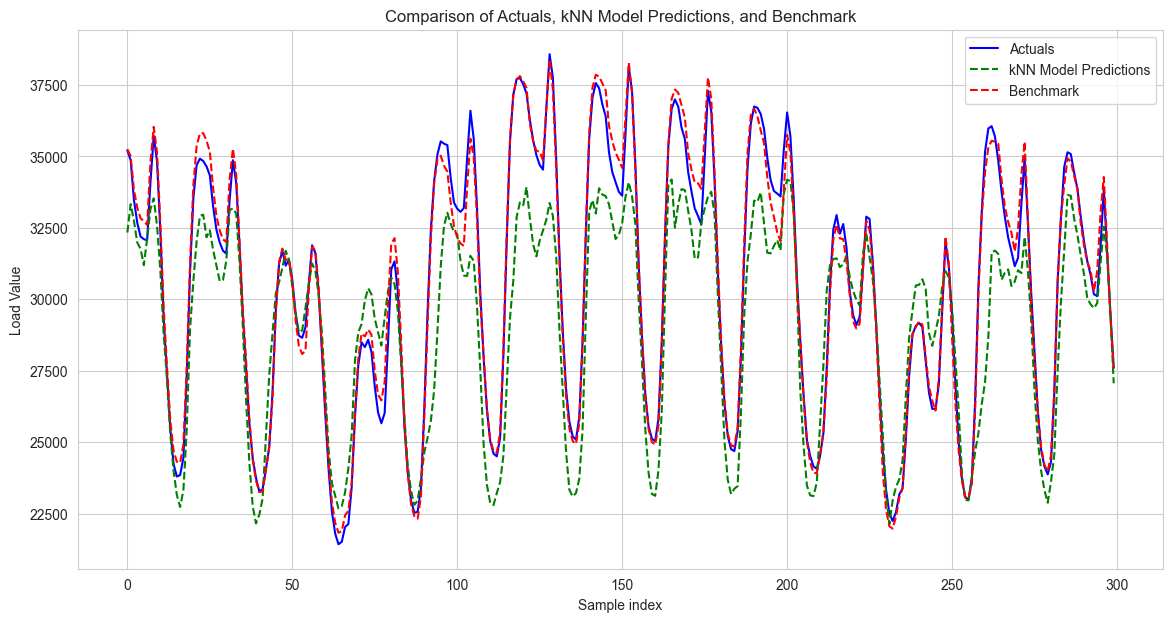
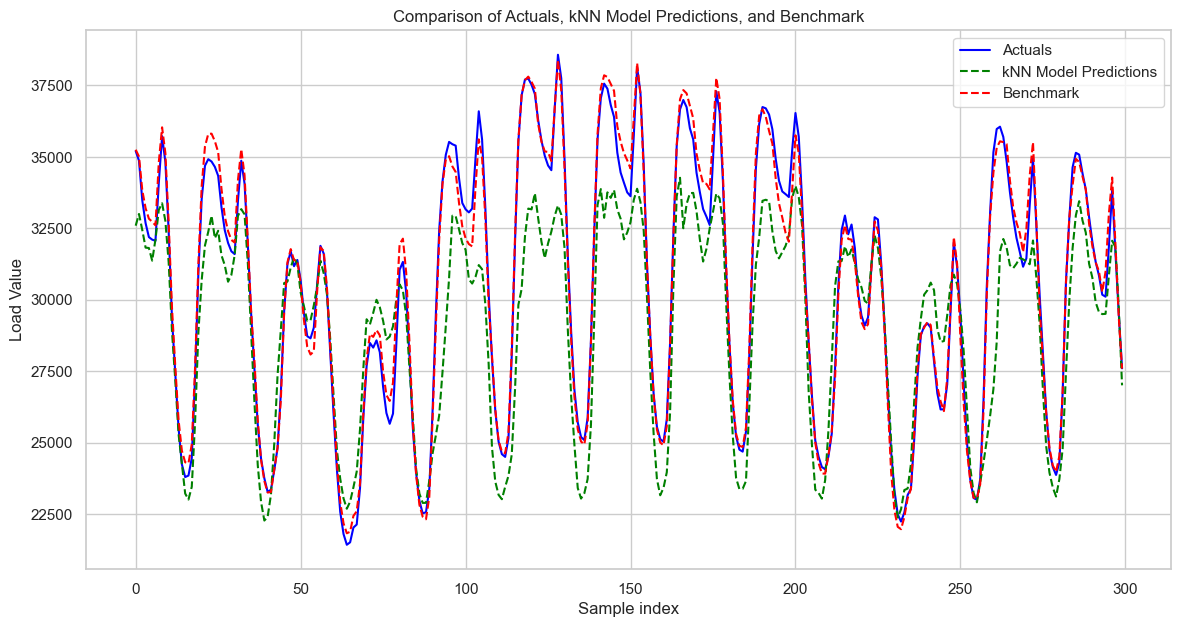
Flask frozen of the energy analysis blog final version

diff --git a/energy_analysis_blog.html b/energy_analysis_blog.html
@@ -109,7 +109,7 @@
                     <ul class="dropdown-menu">
                       <li><a class="dropdown-item" href="running_analysis_blog.html">Running Analysis Using my Strava Data</a></li>
                       <li><a class="dropdown-item" href="strava_analysis_howto.html">How To Analyze <i>Your</i> Strava Data</a></li>
-                      <li><a class="dropdown-item" href="energy_analysis_blog.html">Time-Series Forecasting of the Spanish Energy Grid [WIP]</a></li>
+                      <li><a class="dropdown-item" href="energy_analysis_blog.html">Time-Series Forecasting of the Spanish Energy Grid</a></li>
                       <!--<li><a class="dropdown-item" href="#">Spotify Analysis - Coming Soon!</a></li>-->
                       <li><hr class="dropdown-divider"></li>  
                       <li><a class="dropdown-item" href="side_projects.html">All Projects</a></li>
@@ -159,11 +159,11 @@
     <h1>Time-Series Forecasting of the Spanish Energy Grid</h1>
 
     <h4>October 2023</h4>
-    <div class="reading-time"><i>Approximate reading time: 10 minutes
+    <div class="reading-time"><i>Approximate reading time: 13 minutes
     </div></i></p>
           
 
-    [WIP] Follow along on <a href="https://github.com/zoemcbride/energy-data-lab">my Github repo</a>!
+    Follow along on <a href="https://github.com/zoemcbride/energy-data-lab">my Github repo</a>!
     <p><p><p>
 
     <h3>Intro & Motivation</h3>
@@ -321,6 +321,7 @@
         <li>Season, derived from the month, one-hot encoded as true/false for each season</li>
         <li>Hour of the day, transformed using both sin(2pi*x) and cos(2pi*x) to indicate the cyclical nature of the hour feature</li>
         <li>Previous day load, scaled with a standard scalar</li>
+        <li>Spanish holiday binary, where 1 represents a holiday (such as Christmas on 12/25) and 0 represents no holiday</li>
       </ul>
       The target vector, of course, was the total actual load. The benchmarking vector was the total load forecasted by the TSO.
     </p>
@@ -333,7 +334,7 @@
 
 
     <h4>K-Nearest Neighbors (KNN)</h4>
-    <!--<img src="static/images/knn_nearestneighbors_rmse.png" alt="KNN RMSE versus Number of Neighbors" class="center" style="
+    <img src="static/images/knn_nearestneighbors_rmse.png" alt="KNN RMSE versus Number of Neighbors" class="center" style="
             max-width: 100%;
             max-height: 400px;
             margin-left: auto;
@@ -341,12 +342,12 @@
             align-self: center;
             display: block;
             ">
-    With KNN, the only real hyperparameter to play with is the number of neighbors (k). The above graph shows the root mean squared error (RMSE) plotted against the number of neighbors (k) across all five cross validation folds. As can be seen in the above graph, around k=40 the RMSE plateaus, suggesting that increasing k further will not significantly improve the model's performance. Thus, from here I calculate the final mean absolute error (MAE) and RMSE of our KNN model using k=40 against the test set. I can then similarly calculate the RMSE for the benchmark. Thus, the final numbers for my KNN model are:
+    With KNN, the only real hyperparameter to play with is the number of neighbors (k). The above graph shows the root mean squared error (RMSE) plotted against the number of neighbors (k) across all five cross validation folds. As can be seen in the above graph, around k=50 the RMSE plateaus, suggesting that increasing k further will not significantly improve the model's performance. Thus, from here I calculate the final mean absolute error (MAE) and RMSE of our KNN model using k=50 against the test set. I can then similarly calculate the RMSE for the benchmark. Thus, the final numbers for my KNN model are:
     <ul>
-      <li>My KNN Model RMSE: 2553.0 MW</li>
+      <li>My KNN Model RMSE: 2538.92 MW</li>
       <li>Benchmark RMSE: 378.28 MW</li>
 
-      <li>My kNN model's RMSE is around 8.89% of the mean load value.</li>
+      <li>My kNN model's RMSE is around 8.84% of the mean load value.</li>
       <li>The benchmark's RMSE is around 1.32% of the mean load value.</li>
     </ul>
 
@@ -362,11 +363,10 @@
     
     <p class="opening-paragraph">Overall, while my KNN model could certainly be improved upon, it seems to capture the overall trend and shape of the load effectively.  However, it struggles with the magnitude, generally underpredicting (though occasionally overpredicting) the peak load values. </p>
 
-    -->    
 
     <h4>Random Forest (RF)</h4>
-    <!--
-    <p class="opening-paragraph"></p>
+    
+    
     <img src="static/images/rf_numbertrees_rmse.png" alt="RF RMSE versus Number of Trees" class="center" style="
             max-width: 100%;
             max-height: 400px;
@@ -375,16 +375,19 @@
             align-self: center;
             display: block;
             ">
-    With RF, there are several hyperparameters you can tune. To start, I looked into the number of trees. The above graph shows the root mean squared error (RMSE) plotted against the number of trees (n_estimators) across all five cross validation folds. As can be seen in the above graph, around n_estimators=200 the RMSE plateaus, suggesting that increasing the number of trees further will not significantly improve the model's performance. Thus, from here I calculate the final mean absolute error (MAE) and RMSE of our RF model using n_estimators=200 against the test set. I can then similarly calculate the RMSE for the benchmark. Thus, the final numbers for my RF model are:
+
+    <p class="opening-paragraph">With RF, there are several hyperparameters you can tune. To start, I looked into the number of trees. The above graph shows the root mean squared error (RMSE) plotted against the number of trees (n_estimators) across all five cross validation folds for one iteration of my RF model. As can be seen in the above graph, around n_estimators = 200 to 250 the RMSE plateaus, suggesting that increasing the number of trees further will not significantly improve the model's performance. From here, I then evaluated two other hyperparameters -- maximum depth of the trees and maximum number of features to include -- to further improve the performance of the RF model.  After hyperparameter tuning, I determined the best model had 250 trees with a maximum depth of 10 and maximum number of features of 5.  The max depth parameter controls the maximum number of levels in each decision tree; limiting depth can prevent overfitting by reducing the complexity of the model. Conversely, too shallow trees might not capture sufficient complexity, leading to underfitting. The max features parameter determines how many features each tree is allowed to try to split on at each node, and setting this can help ensure that trees in the ensemble are diverse, which often improves model performance due to the ensemble capturing a wider array of patterns in the data.</p>
+     
+     <p class="opening-paragraph">Next, I can calculate the final RMSE of our RF model using 250 trees of maximum depth of 10 and 5 features against the test set. I can then similarly calculate the RMSE for the benchmark. Thus, the final numbers for my RF model are:
     <ul>
-      <li>My RF Model RMSE: 2547.61 MW</li>
+      <li>My RF Model RMSE: 2452.98 MW</li>
       <li>Benchmark RMSE: 378.28 MW</li>
 
-      <li>My RF model's RMSE is around 8.87% of the mean load value.</li>
+      <li>My RF model's RMSE is around 8.54% of the mean load value.</li>
       <li>The benchmark's RMSE is around 1.32% of the mean load value.</li>
     </ul>
 
-    And below, a snapshot of my RF model (in green) compared to the benchmark (in red) and the actuals (in blue): </p>          
+    And below, a snapshot of my final RF model (in green) compared to the benchmark (in red) and the actuals (in blue): </p>          
     <img src="static/images/rf_benchmark_actuals_graph.png" alt="RF vs Benchmark vs Actuals Graph" class="center" style="
             max-width: 100%;
             max-height: 400px;
@@ -394,8 +397,10 @@
             display: block;
             ">
     
-    <p class="opening-paragraph">Upon visual inspection of the RF model's predictions, it seems to capture the overall trend and shape of the load effectively. However, it struggles with the magnitude, both underpredicting and sometimes overpredicting the peak load values, similar to the KNN model. It is also a bit more "jaggedy" than it needs to be at times. I am wondering if this could be due to overfitting, ie that it is capturing too much noise in the training data, rather than an underlying trend. Additionally, both the KNN and RF models tend to over- and under-predict at similar points in time, which is interesting.</p> 
-  -->
+    <p class="opening-paragraph">Upon visual inspection of the RF model's predictions, it seems to capture the overall trend and shape of the load effectively. However, it struggles with the magnitude, both underpredicting and sometimes overpredicting the peak load values, similar to the KNN model. It is also a bit more "jaggedy" than it needs to be at times. Additionally, both the KNN and RF models tend to over- and under-predict at similar points in time, which is interesting. I explored the under- and over-predicting tendency further, and found that at the higher load values, my model underpredicts, but that at lower load values, my model overpredicts. </p>
+
+    <p class="opening-paragraph">Finally, when investigating the residual between my RF model and the actual load data, I found that the largest errors happened on a very peculiar day, June 2, 2018. In fact, 12 of the 20 "worst" predictions occured on this day. Upon further research, I found that Pedro Sanchez was sworn into office as the Prime Minister of Spain on this day (he is still the PM of Spain as of this writing). On June 2, 2018, the grid load peaked at around 40,000 MW, which is significantly higher than a the mean and median of the grid load, which are 28,000 MW. My model significantly underpredicts the load that day, and frankly, the impact of a new PM on the grid could not have been appropriately anticipated. This is a fascinating finding, but also one that I could not have expected my model to capture. </p>   
+  
 
     <!--<img src="static/images/rf_feature_importance.png" alt="RF Feature Importance" class="center" style="
             max-width: 100%;
@@ -407,7 +412,11 @@
             ">-->
 
     <h3>Conclusions</h3>
-    <p class="opening-paragraph"></p>
+    <p class="opening-paragraph">In conclusion, my RF model achieves an RMSE of 2452.98 MW, which is about 8.54% of the mean load value, indicating a reasonably good fit to the load pattern despite not being flawless. Compared to the KNN model, the RF model is more accurate by 86 MW, or 0.3% of the mean load. A notable observation is the performance on June 2, 2018, when a significant deviation occurred due to the unforeseen event of a new Prime Minister being sworn in, underscoring the model's limitations in accounting for such events. On the other hand, the KNN model, while slightly less accurate with an RMSE of 2538.92 MW, offers a faster alternative, suitable for scenarios where speed is of the essence. </p>
+
+    <p class="opening-paragraph">As for future improvements, exploring a suite of sophisticated time-series forecasting methods like ARIMA, SARIMA, Prophet, LSTMs, or XGBoost stands as the logical next step, aiming to inch closer to the benchmark RMSE of 378.28 MW, which only represents about 1.32% of the mean load value. Fine-tuning the feature matrix could also unlock further potential; for instance, tweaking the previous day's load scaling or incorporating predictive scheduling elements like future election dates may provide additional predictive leverage. </p>
+
+    <p class="opening-paragraph">Overall, I am content with my model's performance. However, the journey towards optimization is an ongoing process, and with more time dedicated to testing and iteration, I am optimistic that an even more precise model is within reach.</p>
 
 <script data-goatcounter="https://zoemcbride.goatcounter.com/count"
 async src="//gc.zgo.at/count.js"></script>

diff --git a/my_flask_app/build/energy_analysis_blog.html b/my_flask_app/build/energy_analysis_blog.html
@@ -109,7 +109,7 @@
                     <ul class="dropdown-menu">
                       <li><a class="dropdown-item" href="running_analysis_blog.html">Running Analysis Using my Strava Data</a></li>
                       <li><a class="dropdown-item" href="strava_analysis_howto.html">How To Analyze <i>Your</i> Strava Data</a></li>
-                      <li><a class="dropdown-item" href="energy_analysis_blog.html">Time-Series Forecasting of the Spanish Energy Grid [WIP]</a></li>
+                      <li><a class="dropdown-item" href="energy_analysis_blog.html">Time-Series Forecasting of the Spanish Energy Grid</a></li>
                       <!--<li><a class="dropdown-item" href="#">Spotify Analysis - Coming Soon!</a></li>-->
                       <li><hr class="dropdown-divider"></li>  
                       <li><a class="dropdown-item" href="side_projects.html">All Projects</a></li>
@@ -159,11 +159,11 @@
     <h1>Time-Series Forecasting of the Spanish Energy Grid</h1>
 
     <h4>October 2023</h4>
-    <div class="reading-time"><i>Approximate reading time: 10 minutes
+    <div class="reading-time"><i>Approximate reading time: 13 minutes
     </div></i></p>
           
 
-    [WIP] Follow along on <a href="https://github.com/zoemcbride/energy-data-lab">my Github repo</a>!
+    Follow along on <a href="https://github.com/zoemcbride/energy-data-lab">my Github repo</a>!
     <p><p><p>
 
     <h3>Intro & Motivation</h3>
@@ -321,6 +321,7 @@
         <li>Season, derived from the month, one-hot encoded as true/false for each season</li>
         <li>Hour of the day, transformed using both sin(2pi*x) and cos(2pi*x) to indicate the cyclical nature of the hour feature</li>
         <li>Previous day load, scaled with a standard scalar</li>
+        <li>Spanish holiday binary, where 1 represents a holiday (such as Christmas on 12/25) and 0 represents no holiday</li>
       </ul>
       The target vector, of course, was the total actual load. The benchmarking vector was the total load forecasted by the TSO.
     </p>
@@ -333,7 +334,7 @@
 
 
     <h4>K-Nearest Neighbors (KNN)</h4>
-    <!--<img src="static/images/knn_nearestneighbors_rmse.png" alt="KNN RMSE versus Number of Neighbors" class="center" style="
+    <img src="static/images/knn_nearestneighbors_rmse.png" alt="KNN RMSE versus Number of Neighbors" class="center" style="
             max-width: 100%;
             max-height: 400px;
             margin-left: auto;
@@ -341,12 +342,12 @@
             align-self: center;
             display: block;
             ">
-    With KNN, the only real hyperparameter to play with is the number of neighbors (k). The above graph shows the root mean squared error (RMSE) plotted against the number of neighbors (k) across all five cross validation folds. As can be seen in the above graph, around k=40 the RMSE plateaus, suggesting that increasing k further will not significantly improve the model's performance. Thus, from here I calculate the final mean absolute error (MAE) and RMSE of our KNN model using k=40 against the test set. I can then similarly calculate the RMSE for the benchmark. Thus, the final numbers for my KNN model are:
+    With KNN, the only real hyperparameter to play with is the number of neighbors (k). The above graph shows the root mean squared error (RMSE) plotted against the number of neighbors (k) across all five cross validation folds. As can be seen in the above graph, around k=50 the RMSE plateaus, suggesting that increasing k further will not significantly improve the model's performance. Thus, from here I calculate the final mean absolute error (MAE) and RMSE of our KNN model using k=50 against the test set. I can then similarly calculate the RMSE for the benchmark. Thus, the final numbers for my KNN model are:
     <ul>
-      <li>My KNN Model RMSE: 2553.0 MW</li>
+      <li>My KNN Model RMSE: 2538.92 MW</li>
       <li>Benchmark RMSE: 378.28 MW</li>
 
-      <li>My kNN model's RMSE is around 8.89% of the mean load value.</li>
+      <li>My kNN model's RMSE is around 8.84% of the mean load value.</li>
       <li>The benchmark's RMSE is around 1.32% of the mean load value.</li>
     </ul>
 
@@ -362,11 +363,10 @@
     
     <p class="opening-paragraph">Overall, while my KNN model could certainly be improved upon, it seems to capture the overall trend and shape of the load effectively.  However, it struggles with the magnitude, generally underpredicting (though occasionally overpredicting) the peak load values. </p>
 
-    -->    
 
     <h4>Random Forest (RF)</h4>
-    <!--
-    <p class="opening-paragraph"></p>
+    
+    
     <img src="static/images/rf_numbertrees_rmse.png" alt="RF RMSE versus Number of Trees" class="center" style="
             max-width: 100%;
             max-height: 400px;
@@ -375,16 +375,19 @@
             align-self: center;
             display: block;
             ">
-    With RF, there are several hyperparameters you can tune. To start, I looked into the number of trees. The above graph shows the root mean squared error (RMSE) plotted against the number of trees (n_estimators) across all five cross validation folds. As can be seen in the above graph, around n_estimators=200 the RMSE plateaus, suggesting that increasing the number of trees further will not significantly improve the model's performance. Thus, from here I calculate the final mean absolute error (MAE) and RMSE of our RF model using n_estimators=200 against the test set. I can then similarly calculate the RMSE for the benchmark. Thus, the final numbers for my RF model are:
+
+    <p class="opening-paragraph">With RF, there are several hyperparameters you can tune. To start, I looked into the number of trees. The above graph shows the root mean squared error (RMSE) plotted against the number of trees (n_estimators) across all five cross validation folds for one iteration of my RF model. As can be seen in the above graph, around n_estimators = 200 to 250 the RMSE plateaus, suggesting that increasing the number of trees further will not significantly improve the model's performance. From here, I then evaluated two other hyperparameters -- maximum depth of the trees and maximum number of features to include -- to further improve the performance of the RF model.  After hyperparameter tuning, I determined the best model had 250 trees with a maximum depth of 10 and maximum number of features of 5.  The max depth parameter controls the maximum number of levels in each decision tree; limiting depth can prevent overfitting by reducing the complexity of the model. Conversely, too shallow trees might not capture sufficient complexity, leading to underfitting. The max features parameter determines how many features each tree is allowed to try to split on at each node, and setting this can help ensure that trees in the ensemble are diverse, which often improves model performance due to the ensemble capturing a wider array of patterns in the data.</p>
+     
+     <p class="opening-paragraph">Next, I can calculate the final RMSE of our RF model using 250 trees of maximum depth of 10 and 5 features against the test set. I can then similarly calculate the RMSE for the benchmark. Thus, the final numbers for my RF model are:
     <ul>
-      <li>My RF Model RMSE: 2547.61 MW</li>
+      <li>My RF Model RMSE: 2452.98 MW</li>
       <li>Benchmark RMSE: 378.28 MW</li>
 
-      <li>My RF model's RMSE is around 8.87% of the mean load value.</li>
+      <li>My RF model's RMSE is around 8.54% of the mean load value.</li>
       <li>The benchmark's RMSE is around 1.32% of the mean load value.</li>
     </ul>
 
-    And below, a snapshot of my RF model (in green) compared to the benchmark (in red) and the actuals (in blue): </p>          
+    And below, a snapshot of my final RF model (in green) compared to the benchmark (in red) and the actuals (in blue): </p>          
     <img src="static/images/rf_benchmark_actuals_graph.png" alt="RF vs Benchmark vs Actuals Graph" class="center" style="
             max-width: 100%;
             max-height: 400px;
@@ -394,8 +397,10 @@
             display: block;
             ">
     
-    <p class="opening-paragraph">Upon visual inspection of the RF model's predictions, it seems to capture the overall trend and shape of the load effectively. However, it struggles with the magnitude, both underpredicting and sometimes overpredicting the peak load values, similar to the KNN model. It is also a bit more "jaggedy" than it needs to be at times. I am wondering if this could be due to overfitting, ie that it is capturing too much noise in the training data, rather than an underlying trend. Additionally, both the KNN and RF models tend to over- and under-predict at similar points in time, which is interesting.</p> 
-  -->
+    <p class="opening-paragraph">Upon visual inspection of the RF model's predictions, it seems to capture the overall trend and shape of the load effectively. However, it struggles with the magnitude, both underpredicting and sometimes overpredicting the peak load values, similar to the KNN model. It is also a bit more "jaggedy" than it needs to be at times. Additionally, both the KNN and RF models tend to over- and under-predict at similar points in time, which is interesting. I explored the under- and over-predicting tendency further, and found that at the higher load values, my model underpredicts, but that at lower load values, my model overpredicts. </p>
+
+    <p class="opening-paragraph">Finally, when investigating the residual between my RF model and the actual load data, I found that the largest errors happened on a very peculiar day, June 2, 2018. In fact, 12 of the 20 "worst" predictions occured on this day. Upon further research, I found that Pedro Sanchez was sworn into office as the Prime Minister of Spain on this day (he is still the PM of Spain as of this writing). On June 2, 2018, the grid load peaked at around 40,000 MW, which is significantly higher than a the mean and median of the grid load, which are 28,000 MW. My model significantly underpredicts the load that day, and frankly, the impact of a new PM on the grid could not have been appropriately anticipated. This is a fascinating finding, but also one that I could not have expected my model to capture. </p>   
+  
 
     <!--<img src="static/images/rf_feature_importance.png" alt="RF Feature Importance" class="center" style="
             max-width: 100%;
@@ -407,7 +412,11 @@
             ">-->
 
     <h3>Conclusions</h3>
-    <p class="opening-paragraph"></p>
+    <p class="opening-paragraph">In conclusion, my RF model achieves an RMSE of 2452.98 MW, which is about 8.54% of the mean load value, indicating a reasonably good fit to the load pattern despite not being flawless. Compared to the KNN model, the RF model is more accurate by 86 MW, or 0.3% of the mean load. A notable observation is the performance on June 2, 2018, when a significant deviation occurred due to the unforeseen event of a new Prime Minister being sworn in, underscoring the model's limitations in accounting for such events. On the other hand, the KNN model, while slightly less accurate with an RMSE of 2538.92 MW, offers a faster alternative, suitable for scenarios where speed is of the essence. </p>
+
+    <p class="opening-paragraph">As for future improvements, exploring a suite of sophisticated time-series forecasting methods like ARIMA, SARIMA, Prophet, LSTMs, or XGBoost stands as the logical next step, aiming to inch closer to the benchmark RMSE of 378.28 MW, which only represents about 1.32% of the mean load value. Fine-tuning the feature matrix could also unlock further potential; for instance, tweaking the previous day's load scaling or incorporating predictive scheduling elements like future election dates may provide additional predictive leverage. </p>
+
+    <p class="opening-paragraph">Overall, I am content with my model's performance. However, the journey towards optimization is an ongoing process, and with more time dedicated to testing and iteration, I am optimistic that an even more precise model is within reach.</p>
 
 <script data-goatcounter="https://zoemcbride.goatcounter.com/count"
 async src="//gc.zgo.at/count.js"></script>

diff --git a/book_reviews.html b/book_reviews.html
@@ -109,7 +109,7 @@
                     <ul class="dropdown-menu">
                       <li><a class="dropdown-item" href="running_analysis_blog.html">Running Analysis Using my Strava Data</a></li>
                       <li><a class="dropdown-item" href="strava_analysis_howto.html">How To Analyze <i>Your</i> Strava Data</a></li>
-                      <li><a class="dropdown-item" href="energy_analysis_blog.html">Time-Series Forecasting of the Spanish Energy Grid [WIP]</a></li>
+                      <li><a class="dropdown-item" href="energy_analysis_blog.html">Time-Series Forecasting of the Spanish Energy Grid</a></li>
                       <!--<li><a class="dropdown-item" href="#">Spotify Analysis - Coming Soon!</a></li>-->
                       <li><hr class="dropdown-divider"></li>  
                       <li><a class="dropdown-item" href="side_projects.html">All Projects</a></li>

diff --git a/index.html b/index.html
@@ -109,7 +109,7 @@
                     <ul class="dropdown-menu">
                       <li><a class="dropdown-item" href="running_analysis_blog.html">Running Analysis Using my Strava Data</a></li>
                       <li><a class="dropdown-item" href="strava_analysis_howto.html">How To Analyze <i>Your</i> Strava Data</a></li>
-                      <li><a class="dropdown-item" href="energy_analysis_blog.html">Time-Series Forecasting of the Spanish Energy Grid [WIP]</a></li>
+                      <li><a class="dropdown-item" href="energy_analysis_blog.html">Time-Series Forecasting of the Spanish Energy Grid</a></li>
                       <!--<li><a class="dropdown-item" href="#">Spotify Analysis - Coming Soon!</a></li>-->
                       <li><hr class="dropdown-divider"></li>  
                       <li><a class="dropdown-item" href="side_projects.html">All Projects</a></li>

diff --git a/my_flask_app/build/book_reviews.html b/my_flask_app/build/book_reviews.html
@@ -109,7 +109,7 @@
                     <ul class="dropdown-menu">
                       <li><a class="dropdown-item" href="running_analysis_blog.html">Running Analysis Using my Strava Data</a></li>
                       <li><a class="dropdown-item" href="strava_analysis_howto.html">How To Analyze <i>Your</i> Strava Data</a></li>
-                      <li><a class="dropdown-item" href="energy_analysis_blog.html">Time-Series Forecasting of the Spanish Energy Grid [WIP]</a></li>
+                      <li><a class="dropdown-item" href="energy_analysis_blog.html">Time-Series Forecasting of the Spanish Energy Grid</a></li>
                       <!--<li><a class="dropdown-item" href="#">Spotify Analysis - Coming Soon!</a></li>-->
                       <li><hr class="dropdown-divider"></li>  
                       <li><a class="dropdown-item" href="side_projects.html">All Projects</a></li>

diff --git a/my_flask_app/build/index.html b/my_flask_app/build/index.html
@@ -109,7 +109,7 @@
                     <ul class="dropdown-menu">
                       <li><a class="dropdown-item" href="running_analysis_blog.html">Running Analysis Using my Strava Data</a></li>
                       <li><a class="dropdown-item" href="strava_analysis_howto.html">How To Analyze <i>Your</i> Strava Data</a></li>
-                      <li><a class="dropdown-item" href="energy_analysis_blog.html">Time-Series Forecasting of the Spanish Energy Grid [WIP]</a></li>
+                      <li><a class="dropdown-item" href="energy_analysis_blog.html">Time-Series Forecasting of the Spanish Energy Grid</a></li>
                       <!--<li><a class="dropdown-item" href="#">Spotify Analysis - Coming Soon!</a></li>-->
                       <li><hr class="dropdown-divider"></li>  
                       <li><a class="dropdown-item" href="side_projects.html">All Projects</a></li>

diff --git a/my_flask_app/build/restaurant_recommendations.html b/my_flask_app/build/restaurant_recommendations.html
@@ -109,7 +109,7 @@
                     <ul class="dropdown-menu">
                       <li><a class="dropdown-item" href="running_analysis_blog.html">Running Analysis Using my Strava Data</a></li>
                       <li><a class="dropdown-item" href="strava_analysis_howto.html">How To Analyze <i>Your</i> Strava Data</a></li>
-                      <li><a class="dropdown-item" href="energy_analysis_blog.html">Time-Series Forecasting of the Spanish Energy Grid [WIP]</a></li>
+                      <li><a class="dropdown-item" href="energy_analysis_blog.html">Time-Series Forecasting of the Spanish Energy Grid</a></li>
                       <!--<li><a class="dropdown-item" href="#">Spotify Analysis - Coming Soon!</a></li>-->
                       <li><hr class="dropdown-divider"></li>  
                       <li><a class="dropdown-item" href="side_projects.html">All Projects</a></li>

diff --git a/my_flask_app/build/running_analysis_blog.html b/my_flask_app/build/running_analysis_blog.html
@@ -109,7 +109,7 @@
                     <ul class="dropdown-menu">
                       <li><a class="dropdown-item" href="running_analysis_blog.html">Running Analysis Using my Strava Data</a></li>
                       <li><a class="dropdown-item" href="strava_analysis_howto.html">How To Analyze <i>Your</i> Strava Data</a></li>
-                      <li><a class="dropdown-item" href="energy_analysis_blog.html">Time-Series Forecasting of the Spanish Energy Grid [WIP]</a></li>
+                      <li><a class="dropdown-item" href="energy_analysis_blog.html">Time-Series Forecasting of the Spanish Energy Grid</a></li>
                       <!--<li><a class="dropdown-item" href="#">Spotify Analysis - Coming Soon!</a></li>-->
                       <li><hr class="dropdown-divider"></li>  
                       <li><a class="dropdown-item" href="side_projects.html">All Projects</a></li>

diff --git a/my_flask_app/build/side_projects.html b/my_flask_app/build/side_projects.html
@@ -110,7 +110,7 @@
                     <ul class="dropdown-menu">
                       <li><a class="dropdown-item" href="running_analysis_blog.html">Running Analysis Using my Strava Data</a></li>
                       <li><a class="dropdown-item" href="strava_analysis_howto.html">How To Analyze <i>Your</i> Strava Data</a></li>
-                      <li><a class="dropdown-item" href="energy_analysis_blog.html">Time-Series Forecasting of the Spanish Energy Grid [WIP]</a></li>
+                      <li><a class="dropdown-item" href="energy_analysis_blog.html">Time-Series Forecasting of the Spanish Energy Grid</a></li>
                       <!--<li><a class="dropdown-item" href="#">Spotify Analysis - Coming Soon!</a></li>-->
                       <li><hr class="dropdown-divider"></li>  
                       <li><a class="dropdown-item" href="side_projects.html">All Projects</a></li>

diff --git a/my_flask_app/build/strava_analysis_howto.html b/my_flask_app/build/strava_analysis_howto.html
@@ -109,7 +109,7 @@
                     <ul class="dropdown-menu">
                       <li><a class="dropdown-item" href="running_analysis_blog.html">Running Analysis Using my Strava Data</a></li>
                       <li><a class="dropdown-item" href="strava_analysis_howto.html">How To Analyze <i>Your</i> Strava Data</a></li>
-                      <li><a class="dropdown-item" href="energy_analysis_blog.html">Time-Series Forecasting of the Spanish Energy Grid [WIP]</a></li>
+                      <li><a class="dropdown-item" href="energy_analysis_blog.html">Time-Series Forecasting of the Spanish Energy Grid</a></li>
                       <!--<li><a class="dropdown-item" href="#">Spotify Analysis - Coming Soon!</a></li>-->
                       <li><hr class="dropdown-divider"></li>  
                       <li><a class="dropdown-item" href="side_projects.html">All Projects</a></li>

diff --git a/restaurant_recommendations.html b/restaurant_recommendations.html
@@ -109,7 +109,7 @@
                     <ul class="dropdown-menu">
                       <li><a class="dropdown-item" href="running_analysis_blog.html">Running Analysis Using my Strava Data</a></li>
                       <li><a class="dropdown-item" href="strava_analysis_howto.html">How To Analyze <i>Your</i> Strava Data</a></li>
-                      <li><a class="dropdown-item" href="energy_analysis_blog.html">Time-Series Forecasting of the Spanish Energy Grid [WIP]</a></li>
+                      <li><a class="dropdown-item" href="energy_analysis_blog.html">Time-Series Forecasting of the Spanish Energy Grid</a></li>
                       <!--<li><a class="dropdown-item" href="#">Spotify Analysis - Coming Soon!</a></li>-->
                       <li><hr class="dropdown-divider"></li>  
                       <li><a class="dropdown-item" href="side_projects.html">All Projects</a></li>

diff --git a/running_analysis_blog.html b/running_analysis_blog.html
@@ -109,7 +109,7 @@
                     <ul class="dropdown-menu">
                       <li><a class="dropdown-item" href="running_analysis_blog.html">Running Analysis Using my Strava Data</a></li>
                       <li><a class="dropdown-item" href="strava_analysis_howto.html">How To Analyze <i>Your</i> Strava Data</a></li>
-                      <li><a class="dropdown-item" href="energy_analysis_blog.html">Time-Series Forecasting of the Spanish Energy Grid [WIP]</a></li>
+                      <li><a class="dropdown-item" href="energy_analysis_blog.html">Time-Series Forecasting of the Spanish Energy Grid</a></li>
                       <!--<li><a class="dropdown-item" href="#">Spotify Analysis - Coming Soon!</a></li>-->
                       <li><hr class="dropdown-divider"></li>  
                       <li><a class="dropdown-item" href="side_projects.html">All Projects</a></li>
